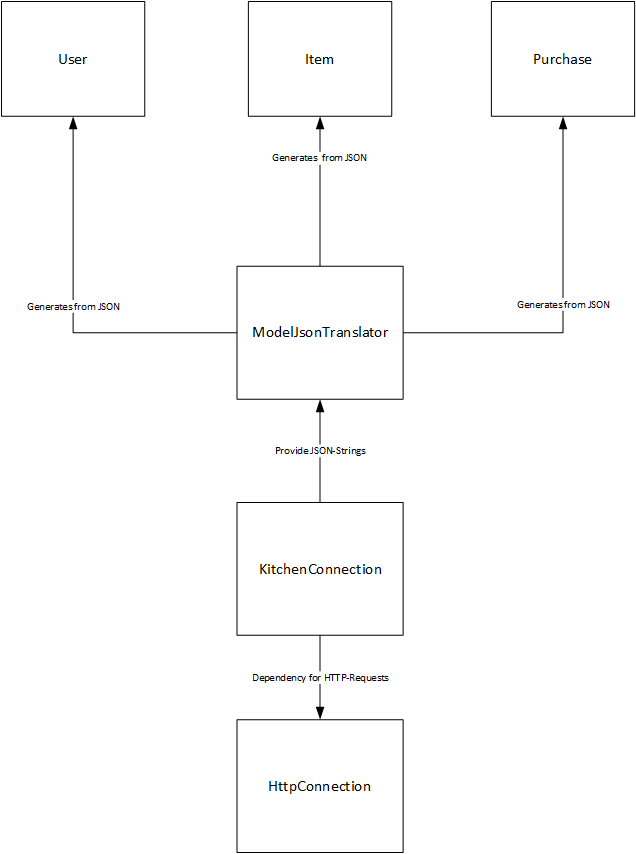
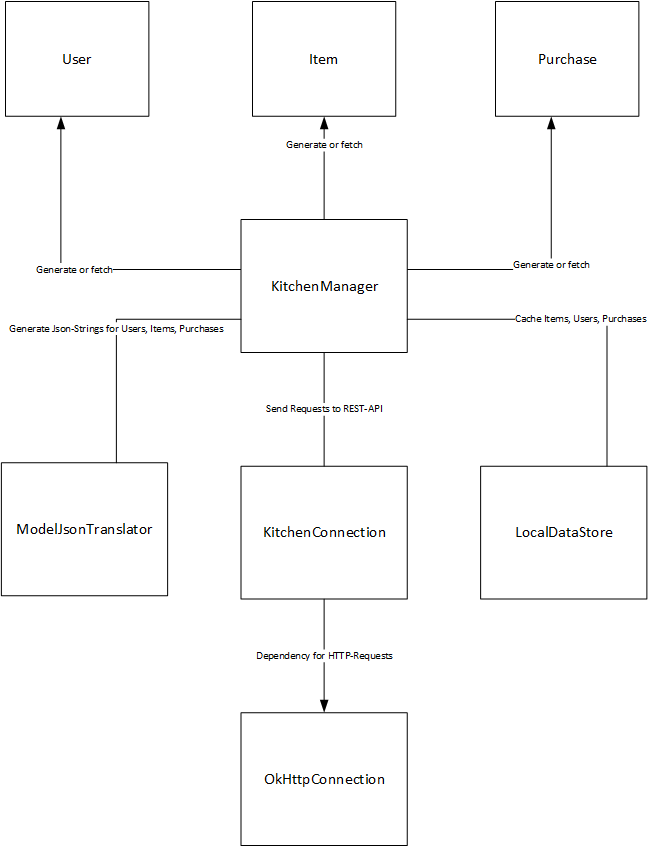
Modified Documentation

diff --git a/doc/Documentation/documentation.tex b/doc/Documentation/documentation.tex
@@ -44,10 +44,22 @@
 		
 		\subsection{Backend-Architektur} \label{architecture.backend}
 			\paragraph*{}
-			Die Backend-Architektur besteht aus drei Ebenen. Die unterste Ebene bildet die Klasse \texttt{OkHttpConnection}, welche über das Interface \texttt{HttpConnection} implementiert ist. Die Klasse ist verantwortlich für den primitiven Netzwerkverkehr beliebiger Inhalte. \\
-			Auf der zweiten Ebene befinden sich die Klassen \texttt{KitchenConnection} und \texttt{JsonTranslator}. \texttt{KitchenConnection} ist verantwortlich für die spezialisierte Kommunikation mit der bereitgestellten REST-API. Die Klasse enthält Attribute für die Basis-URL des REST-Servers, sowie für Schlüssel zur Erzeugung von Nutzern. Alle Funktionen der REST-API werden hier implementiert. \\
-			Die Klasse \texttt{JsonTranslator} ist verantwortlich für die bidirektionale Umwandlung zwischen Objekten des Datenmodells und JSON-Strings.
+			Die Backend-Architektur besteht aus drei Ebenen. Die unterste Ebene bildet die Klasse \texttt{OkHttpConnection}, welche über das Interface \texttt{HttpConnection} implementiert ist. Die Klasse ist verantwortlich für den primitiven Netzwerkverkehr per HTTP mit beliebigen Inhalten. Es werden die HTTP-Methoden \texttt{GET}, \texttt{POST}, \texttt{PUT} und \texttt{DELETE} implementiert. Bei fehlerhaften Anfragen (HTTP-Code $\neq$ 2xx), sowie bei fehlerhaften URLs wird eine Exception geworfen.
 			
+			\paragraph*{}
+			Auf der zweiten Ebene befinden sich die Klassen \texttt{KitchenConnection}, \texttt{LocalDataStore} und \texttt{JsonTranslator}.
+			
+			\begin{itemize}
+				\item  \texttt{KitchenConnection} ist verantwortlich für die spezialisierte Kommunikation mit der bereitgestellten REST-API. Die Klasse enthält Attribute für die Basis-URL des REST-Servers, sowie für Schlüssel zur Erzeugung von Nutzern. Alle Funktionen der REST-API werden hier implementiert, indem jede Methode der Klasse einen Pfad der REST-API abdeckt. Die Funktionsnamen entsprechen der Spezifikation der REST-API.
+				
+				\item \texttt{LocalDataStore} ist verantwortlich für das Zwischenspeichern der User, Items und Purchases. Dies ermöglicht schnelleren Zugriff auf die jeweiligen Objekte.
+				
+				\item \texttt{JsonTranslator} ist verantwortlich für die bidirektionale Umwandlung zwischen Objekten des Datenmodells und JSON-Strings. Die verwendete Bibliothek für die Umwandlung ist Google's \texttt{GSON}.
+			\end{itemize}
+		
+			\paragraph*{}
+			Die Dritte Ebene beinhaltet nur die Klasse \texttt{KitchenManager}. Sie ist der Einstiegspunkte des Backend und stellt so alle Operationen zur Verfügung, welche die Oberfläche benötigt.
+		
 			\begin{figure}[!h]
 				\centering
 				\label{backendArchitecture}
@@ -55,6 +67,10 @@
 				\caption{Backend Architektur}
 			\end{figure}
 	
+	\section{Anhang: Build-Umgebung} \label{build}
+	
 	\section{Anhang: Bibliotheken} \label{bib}
+
+	\section{Anhang: Tests} \label{tests}
 	
 \end{document}
